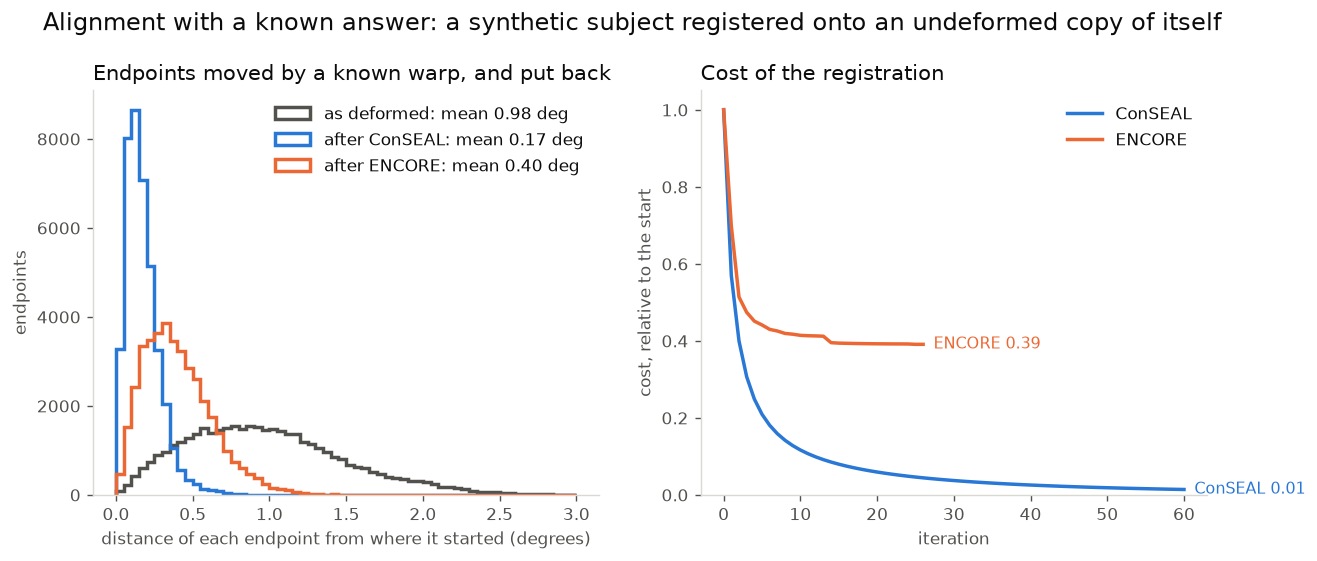
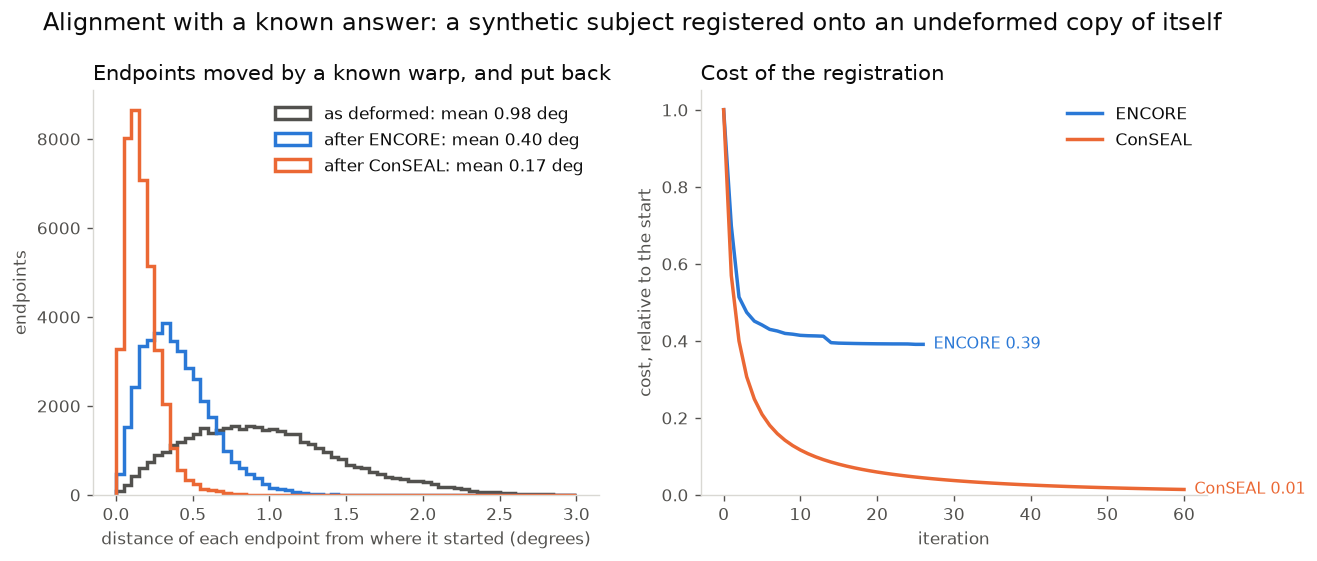
Alignment illustration: ENCORE before ConSEAL, and no reference to the public code
The recovery figure now lists ENCORE first (blue) and ConSEAL second
(orange) in the histogram legend and the cost traces, and is drawn in that
order; the README paragraph, the USAGE caption and the figure index follow
it. The illustration text describes each method's result on its own and no
longer explains it by what the public code would have done; those
comparisons stay in PORTING.md.

diff --git a/scripts/make_figures.py b/scripts/make_figures.py
@@ -232,23 +232,6 @@ def alignment_recovery(out: Path) -> None:
     before = np.r_[angles(original[0], moved[0]), angles(original[1], moved[1])]
 
     t = time.time()
-    conseal = sbci.endpoints_align(
-        [subject, deformed],
-        template=0,
-        max_iterations=60,
-        threshold=1e-7,
-        delta=0.1,
-        step_clamp=float("inf"),
-        viscosity=0.0,
-    )
-    back = endpoint_positions(conseal.aligned_endpoints(1))
-    after_conseal = np.r_[angles(original[0], back[0]), angles(original[1], back[1])]
-    print(
-        f"  ConSEAL in {time.time() - t:.0f}s: {before.mean():.2f} -> {after_conseal.mean():.2f}",
-        flush=True,
-    )
-
-    t = time.time()
     grids, rotations = _hemisphere_grids(DEFAULT_WARP_ORDER, return_rotations=True)
     encore = align(
         [subject, deformed],
@@ -276,12 +259,30 @@ def alignment_recovery(out: Path) -> None:
         flush=True,
     )
 
+    t = time.time()
+    conseal = sbci.endpoints_align(
+        [subject, deformed],
+        template=0,
+        max_iterations=60,
+        threshold=1e-7,
+        delta=0.1,
+        step_clamp=float("inf"),
+        viscosity=0.0,
+    )
+    back = endpoint_positions(conseal.aligned_endpoints(1))
+    after_conseal = np.r_[angles(original[0], back[0]), angles(original[1], back[1])]
+    print(
+        f"  ConSEAL in {time.time() - t:.0f}s: "
+        f"{before.mean():.2f} -> {after_conseal.mean():.2f} deg",
+        flush=True,
+    )
+
     figure, (left, right) = plt.subplots(1, 2, figsize=(11.5, 4.2))
     bins = np.linspace(0, 3.0, 61)
     for values, color, label in (
         (before, MUTED, "as deformed"),
-        (after_conseal, BLUE, "after ConSEAL"),
-        (after_encore, ORANGE, "after ENCORE"),
+        (after_encore, BLUE, "after ENCORE"),
+        (after_conseal, ORANGE, "after ConSEAL"),
     ):
         left.hist(
             values,
@@ -296,8 +297,8 @@ def alignment_recovery(out: Path) -> None:
     left.set_title("Endpoints moved by a known warp, and put back", loc="left")
     left.legend(frameon=False)
     for trace, color, label in (
-        (np.asarray(conseal.costs[1]), BLUE, "ConSEAL"),
-        (np.asarray(encore.traces[1]), ORANGE, "ENCORE"),
+        (np.asarray(encore.traces[1]), BLUE, "ENCORE"),
+        (np.asarray(conseal.costs[1]), ORANGE, "ConSEAL"),
     ):
         relative = trace / trace[0]
         right.plot(range(len(relative)), relative, color=color, linewidth=2, label=label)

diff --git a/README.md b/README.md
@@ -153,14 +153,11 @@ lines). Timings are for four cores.
 
 **Alignment, with a known answer.** A subject's endpoints were moved by a
 known smooth warp, a degree on average and four at most, and the deformed
-copy was registered back onto the original. ConSEAL puts the endpoints back
-to within 0.17 degrees of where they started, undoing 82% of the displacement
-and 99% of the cost, with the paper's update rule and a stopping threshold of
-1e-7; with the public code's defaults it stops after ten iterations at 0.47
-degrees. ENCORE, whose warp is undone through its inverse, reaches 0.40
-degrees. The public ENCORE code would have done nothing on this pair: its
-fixed step overshoots a small deformation at the first try and it stops, so
-the port halves the step instead (PORTING.md item 4).
+copy was registered back onto the original. ENCORE, whose warp is undone
+through its inverse, puts the endpoints back to within 0.40 degrees of where
+they started, undoing 59% of the displacement; ConSEAL, with the paper's
+update rule and a stopping threshold of 1e-7, to within 0.17 degrees, undoing
+82% of the displacement and 99% of the cost (PORTING.md items 4 and 7).
 
 ![Alignment with a known answer](docs/figures/alignment_recovery.png)
 
@@ -170,10 +167,10 @@ still the largest single component of the cohort, but the FPCA's default
 start, a power iteration inherited from the reference, no longer reaches it;
 `sbci.reduce(..., candidates=6)` does. Aligned with ENCORE first, the bundle
 comes out as the first component at every spread tried. ConSEAL keeps it too,
-except with the paper's unregularized update onto a template that has
-collapsed onto one subject, which can align the difference away; the public
-regularization or a mean template keeps it. PORTING.md items 5 and 7 have the
-table.
+except with an unregularized update (no clamp, no viscosity) onto a template
+that has collapsed onto one subject, which can align the difference away; the
+default regularization or a mean template keeps it. PORTING.md items 5 and 7
+have the table.
 
 ![The planted bundle](docs/figures/cohort_truth.png)
 

diff --git a/USAGE.md b/USAGE.md
@@ -552,10 +552,11 @@ seconds per 100,000 streamlines rather than minutes. Six things to know:
 
 *A synthetic subject's endpoints moved by a known smooth warp (a degree on
 average, four at most) and registered back onto the original: how far each
-endpoint still is from where it started, and the cost per iteration. ConSEAL
-with the paper's update (`delta=0.1, step_clamp=inf, viscosity=0`) and a
-stopping threshold of 1e-7 puts the endpoints back to within 0.17 degrees on
-average; ENCORE, undone through the inverse of its warp, to within 0.40.*
+endpoint still is from where it started, and the cost per iteration. ENCORE,
+undone through the inverse of its warp, puts the endpoints back to within
+0.40 degrees on average; ConSEAL with the paper's update (`delta=0.1,
+step_clamp=inf, viscosity=0`) and a stopping threshold of 1e-7, to within
+0.17.*
 
 ## Writing the exchange file
 

diff --git a/docs/figures/README.md b/docs/figures/README.md
@@ -25,4 +25,4 @@ there is nothing to see.
 | `cohort_truth.png` | the planted bundle of `sbci.example_cohort()`, the field whose weight scales with age |
 | `cohort_effect.png` | what `reduce` and `local_test` recover: the effect map of the significant component |
 | `cohort_scores.png` | that component's scores against the synthetic age, with the fitted line and the adjusted p-value |
-| `alignment_recovery.png` | a subject's endpoints moved by a known smooth warp and registered back onto the original by ConSEAL and by ENCORE: how far each endpoint still is from where it started, and the cost per iteration |
+| `alignment_recovery.png` | a subject's endpoints moved by a known smooth warp and registered back onto the original by ENCORE and by ConSEAL: how far each endpoint still is from where it started, and the cost per iteration |
